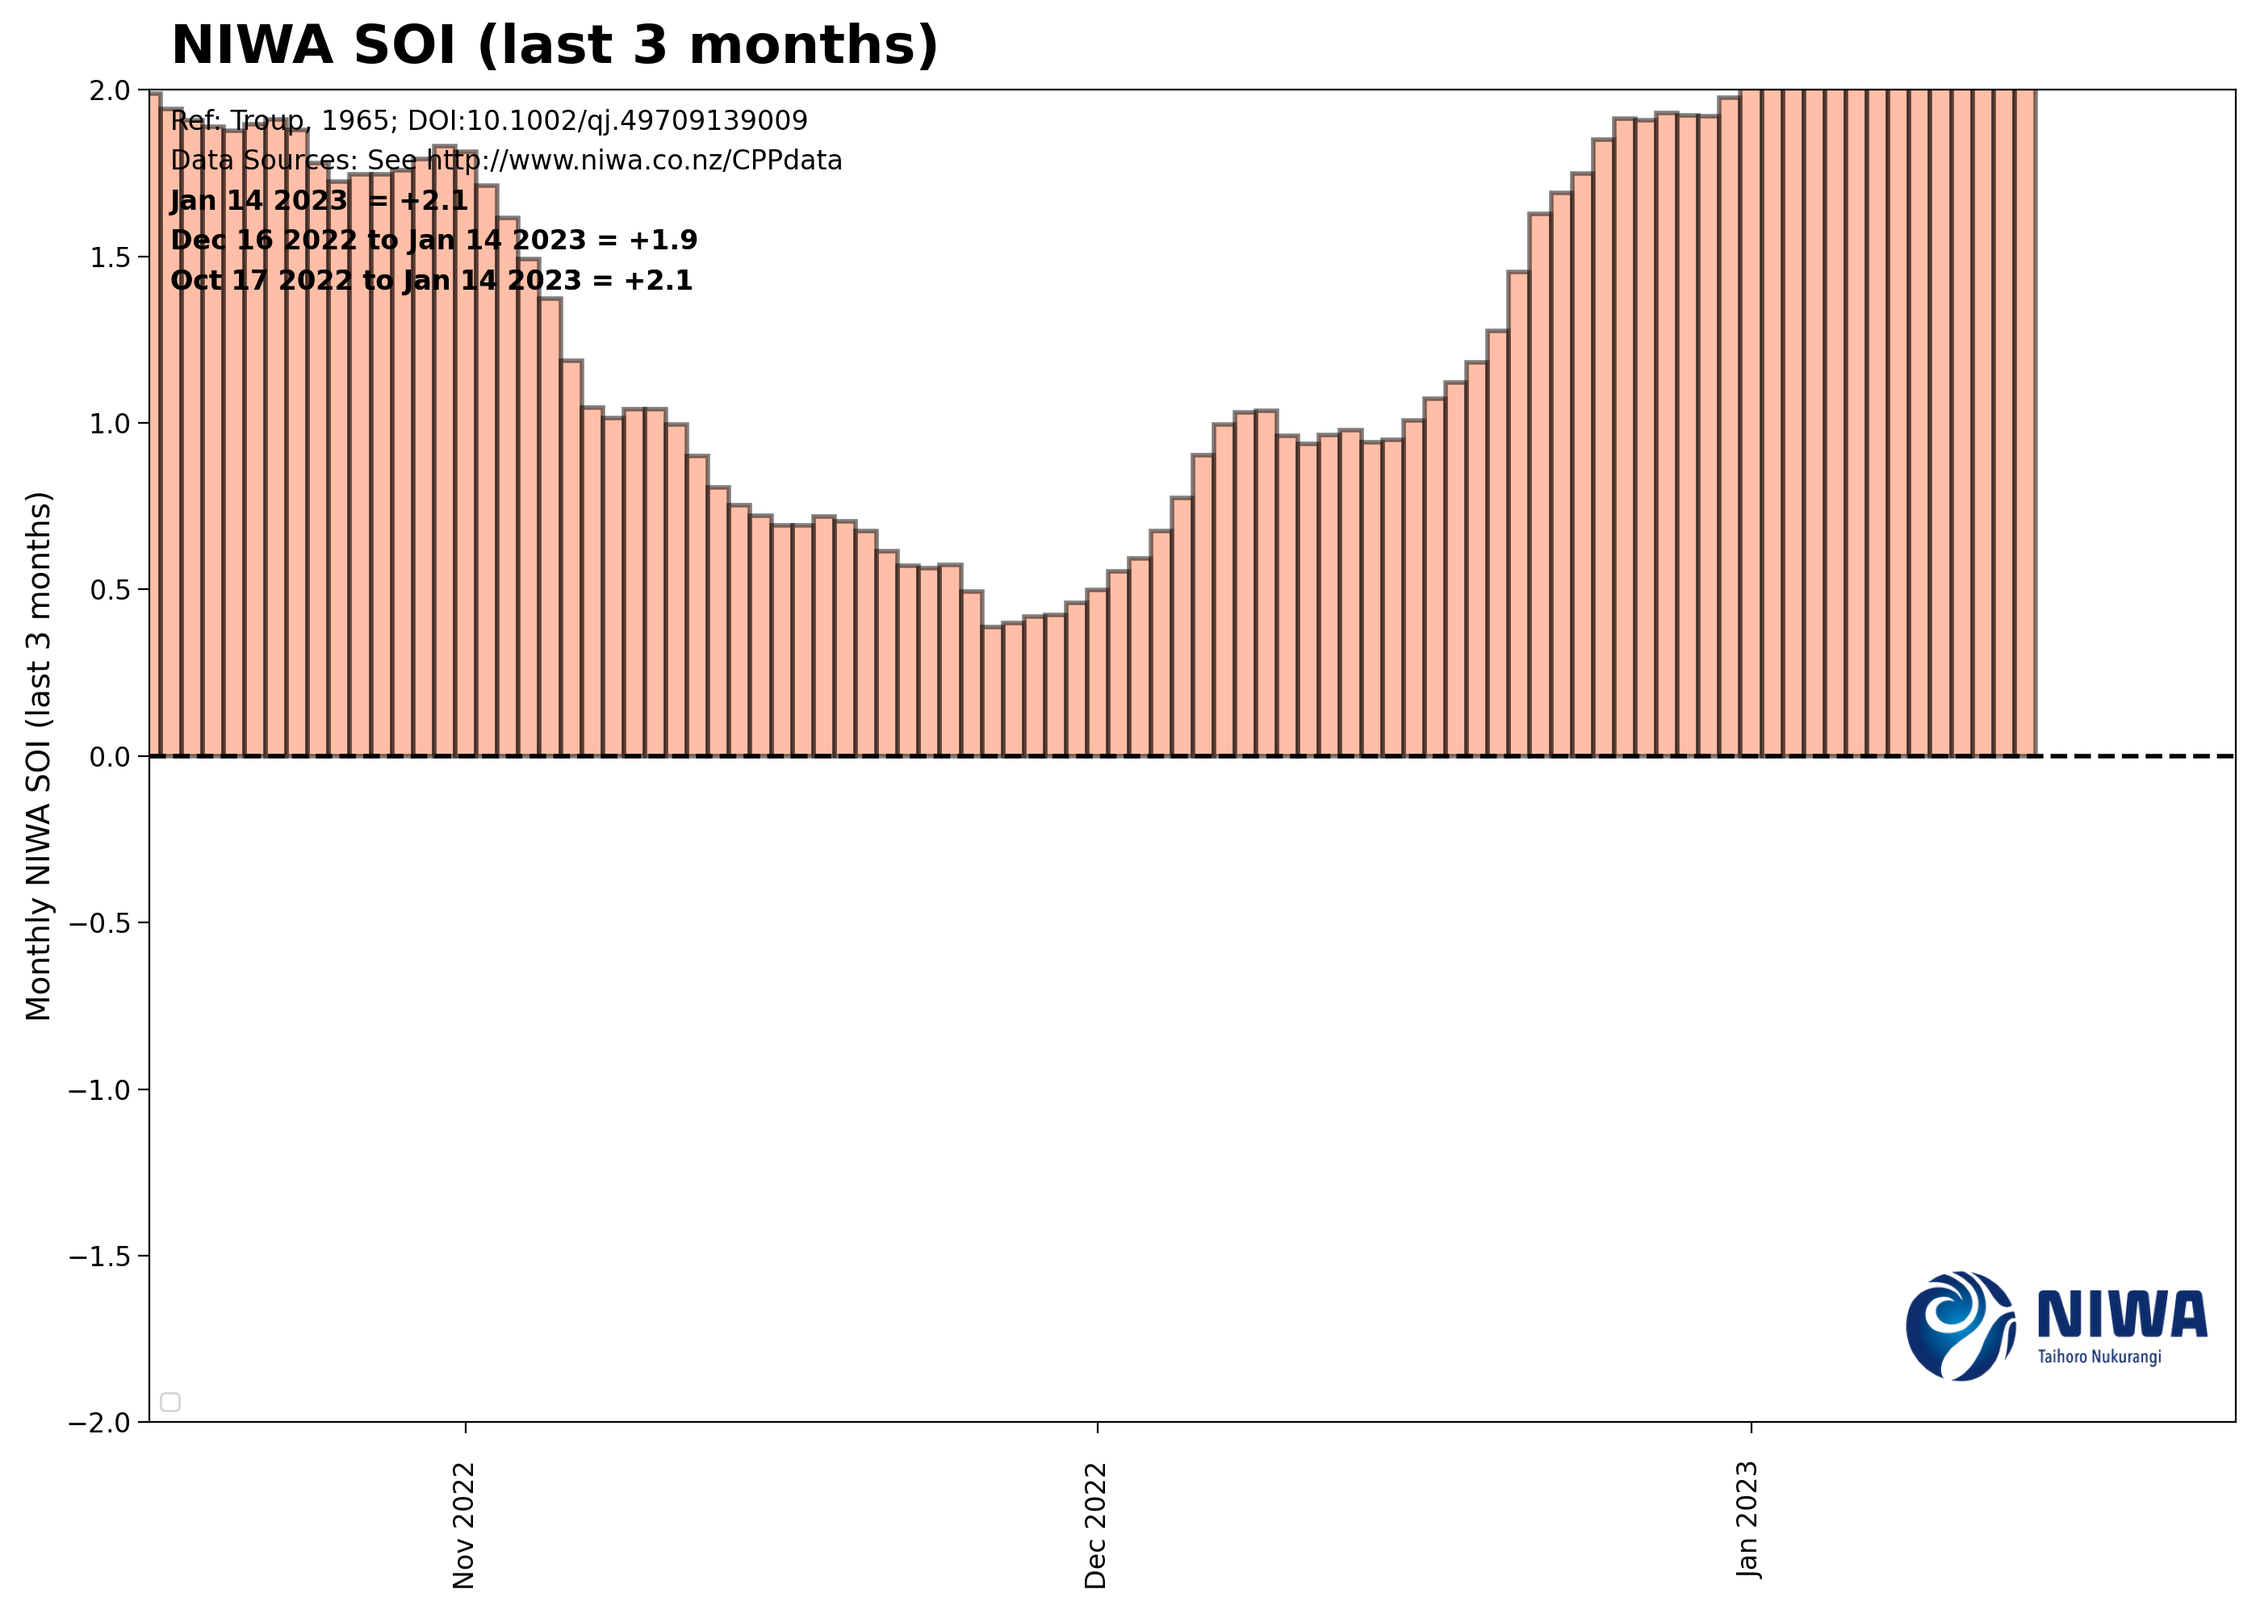
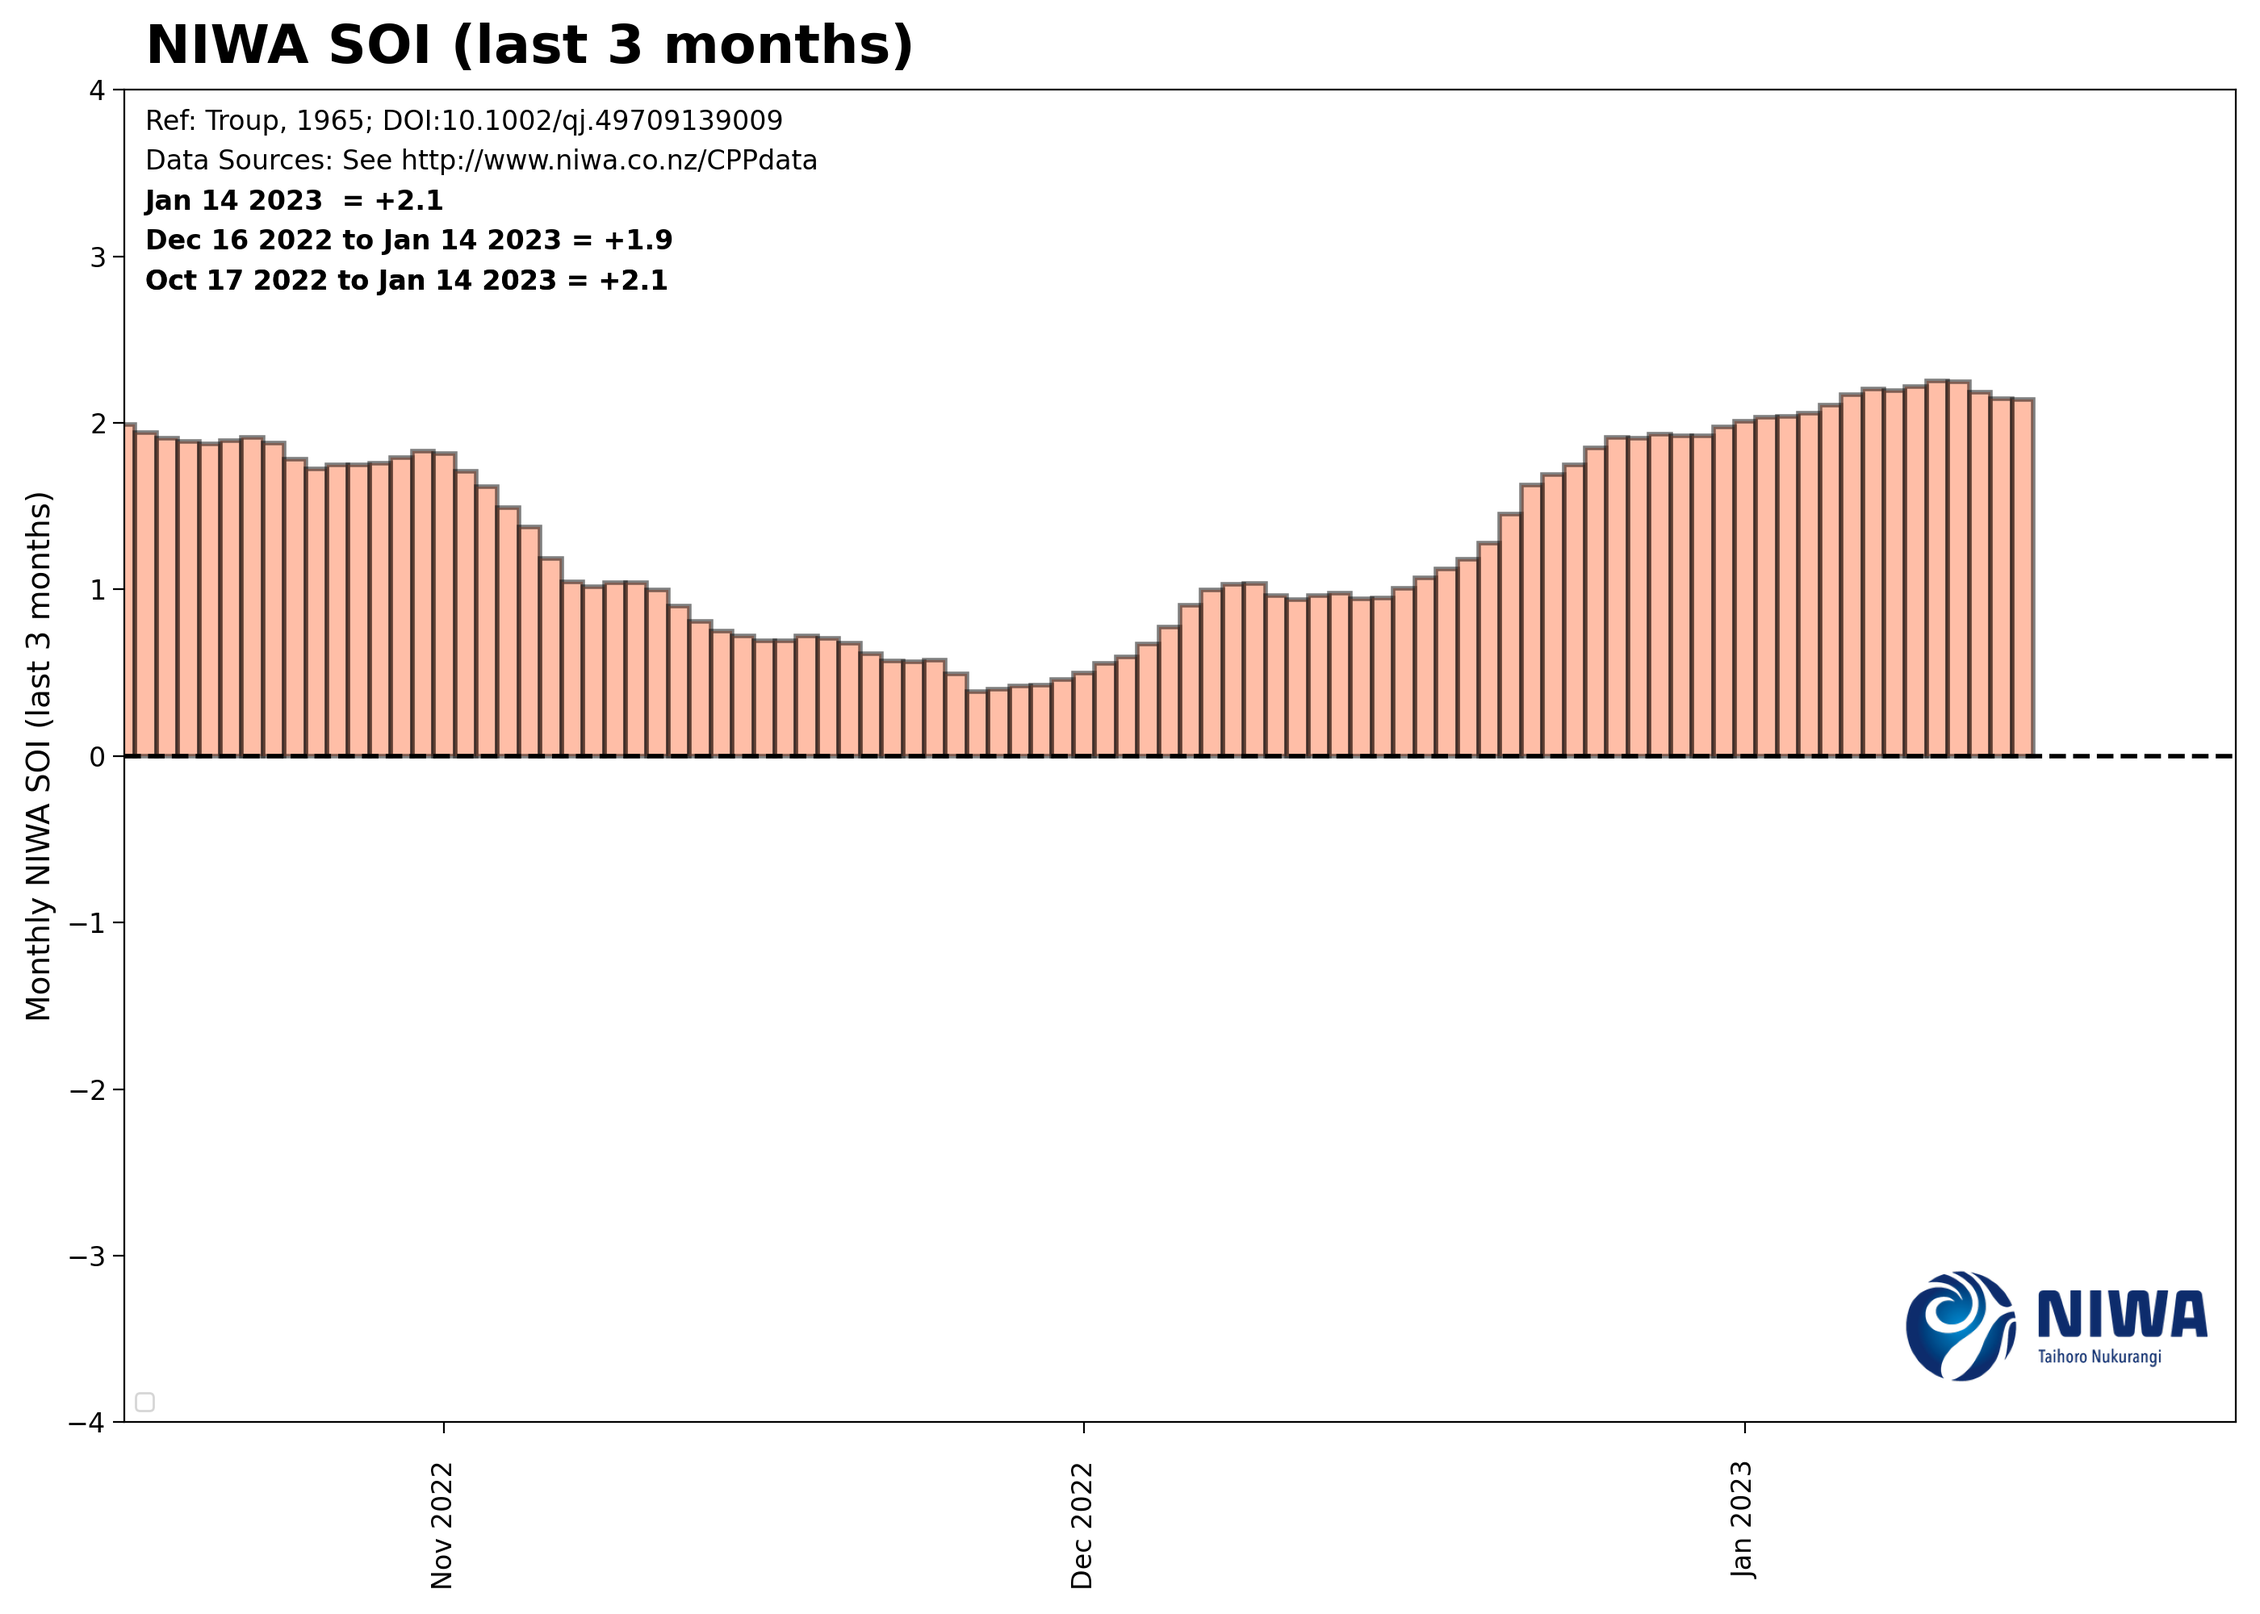
Fixed link for obtaining NCEP data

diff --git a/indices/code/compute_indices.py b/indices/code/compute_indices.py
@@ -1,3 +1,6 @@
+## Author: Neelesh Rampal
+## Last Modified: 16/01/23 - changed the yaxis plots on the SOI
+
 import warnings
 import os, sys
 import glob
@@ -59,7 +62,7 @@ if __name__ == "__main__":
                                                              soim, months,
                                          output_path=f'{output_dirs}',
                                          cei=True, var_name=f'NIWA SOI (last 3 months)', var_2='SOI 3-month', title=False, label_bool = None,
-                                                                        ylim=(-2,2), period2 =30, period1 = 1, periodicity ='D')
+                                                                        ylim=(-4,4), period2 =30, period1 = 1, periodicity ='D')
     text = "%s to %s = %+3.1f" % (soi.index[-90].strftime("%b %d %Y"),
                                   soi.index[-1].strftime("%b %d %Y"), soi.iloc[-1, 1]/10.0)
 

diff --git a/SPBI/get_ncep_data.py b/SPBI/get_ncep_data.py
@@ -23,14 +23,17 @@ def identify_missing_files(output_path, download_loc):
     :return:
     """
     current_year = datetime.datetime.utcnow().year
+    previous_year = current_year -1
     ncep_years = np.arange(1948, current_year+1)
     files_names = [f'{download_loc}hgt.{year}.nc'
            for year in ncep_years if not os.path.exists(f'{output_path}/hgt.{year}.nc')]
     # identifies any other missing files if any
     files_names.append(f'{download_loc}hgt.{current_year}.nc')
     # removing the most recent one to avoid over writing
+    files_names.append(f'{download_loc}hgt.{previous_year}.nc')
     try:
         os.remove(f'{output_path}/hgt.{current_year}.nc')
+        os.remove(f'{output_path}/hgt.{previous_year}.nc')
     except FileNotFoundError:
         pass
     # adds the most recent file just incase it is missing
